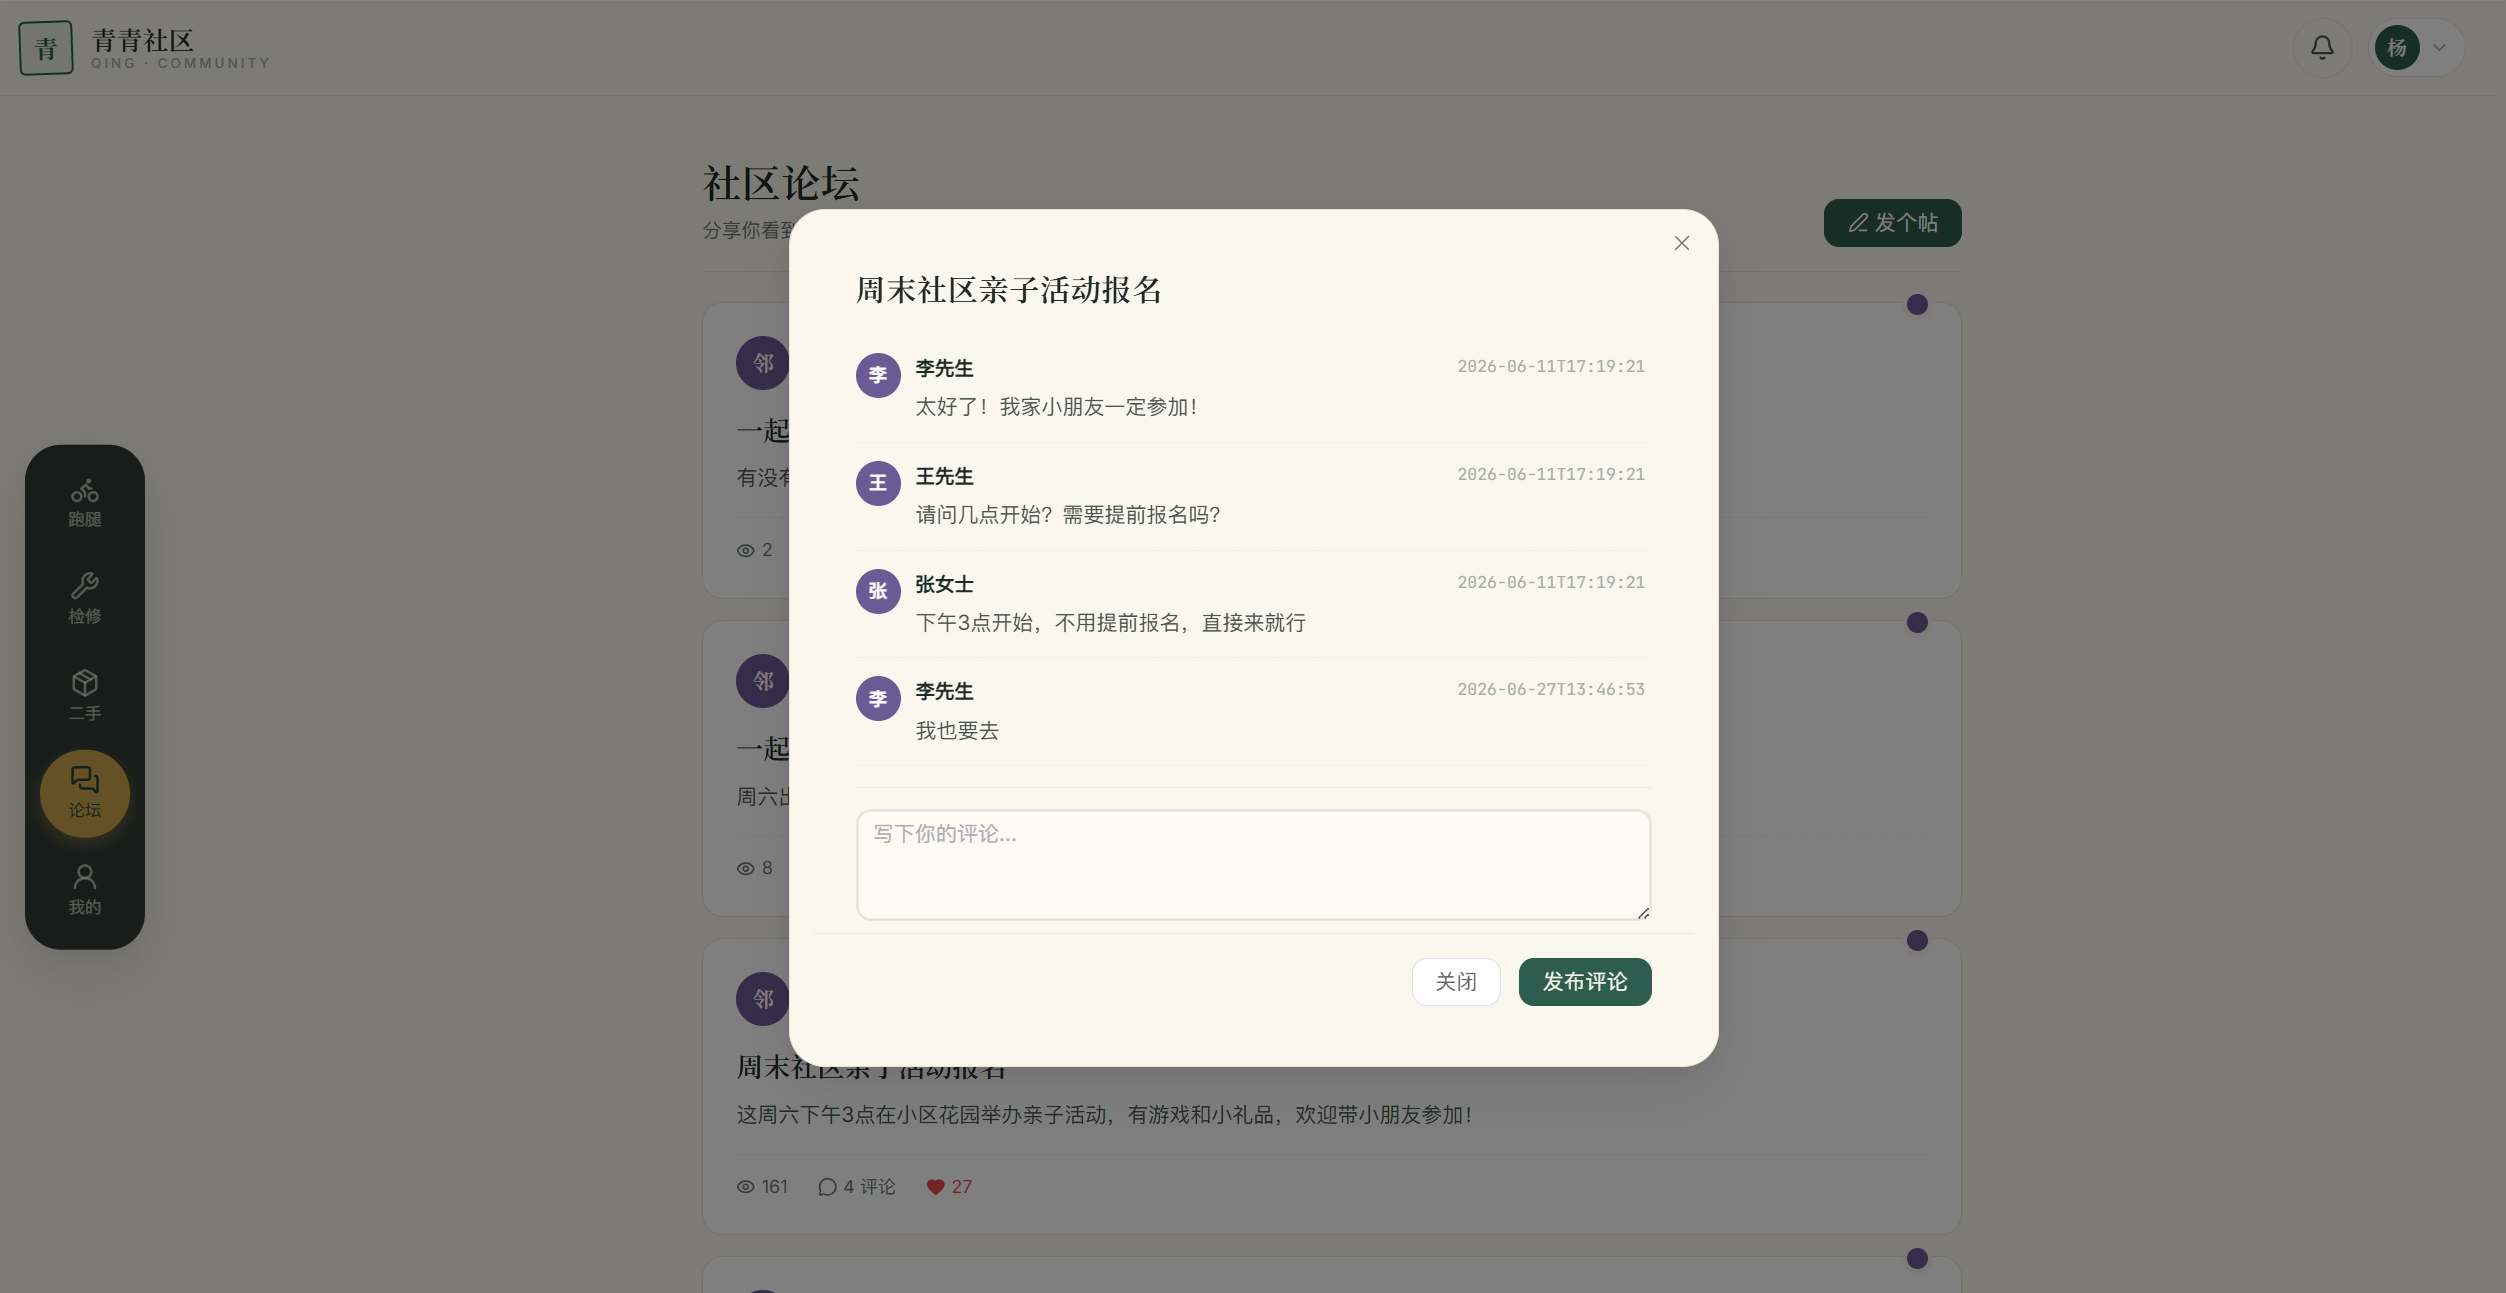
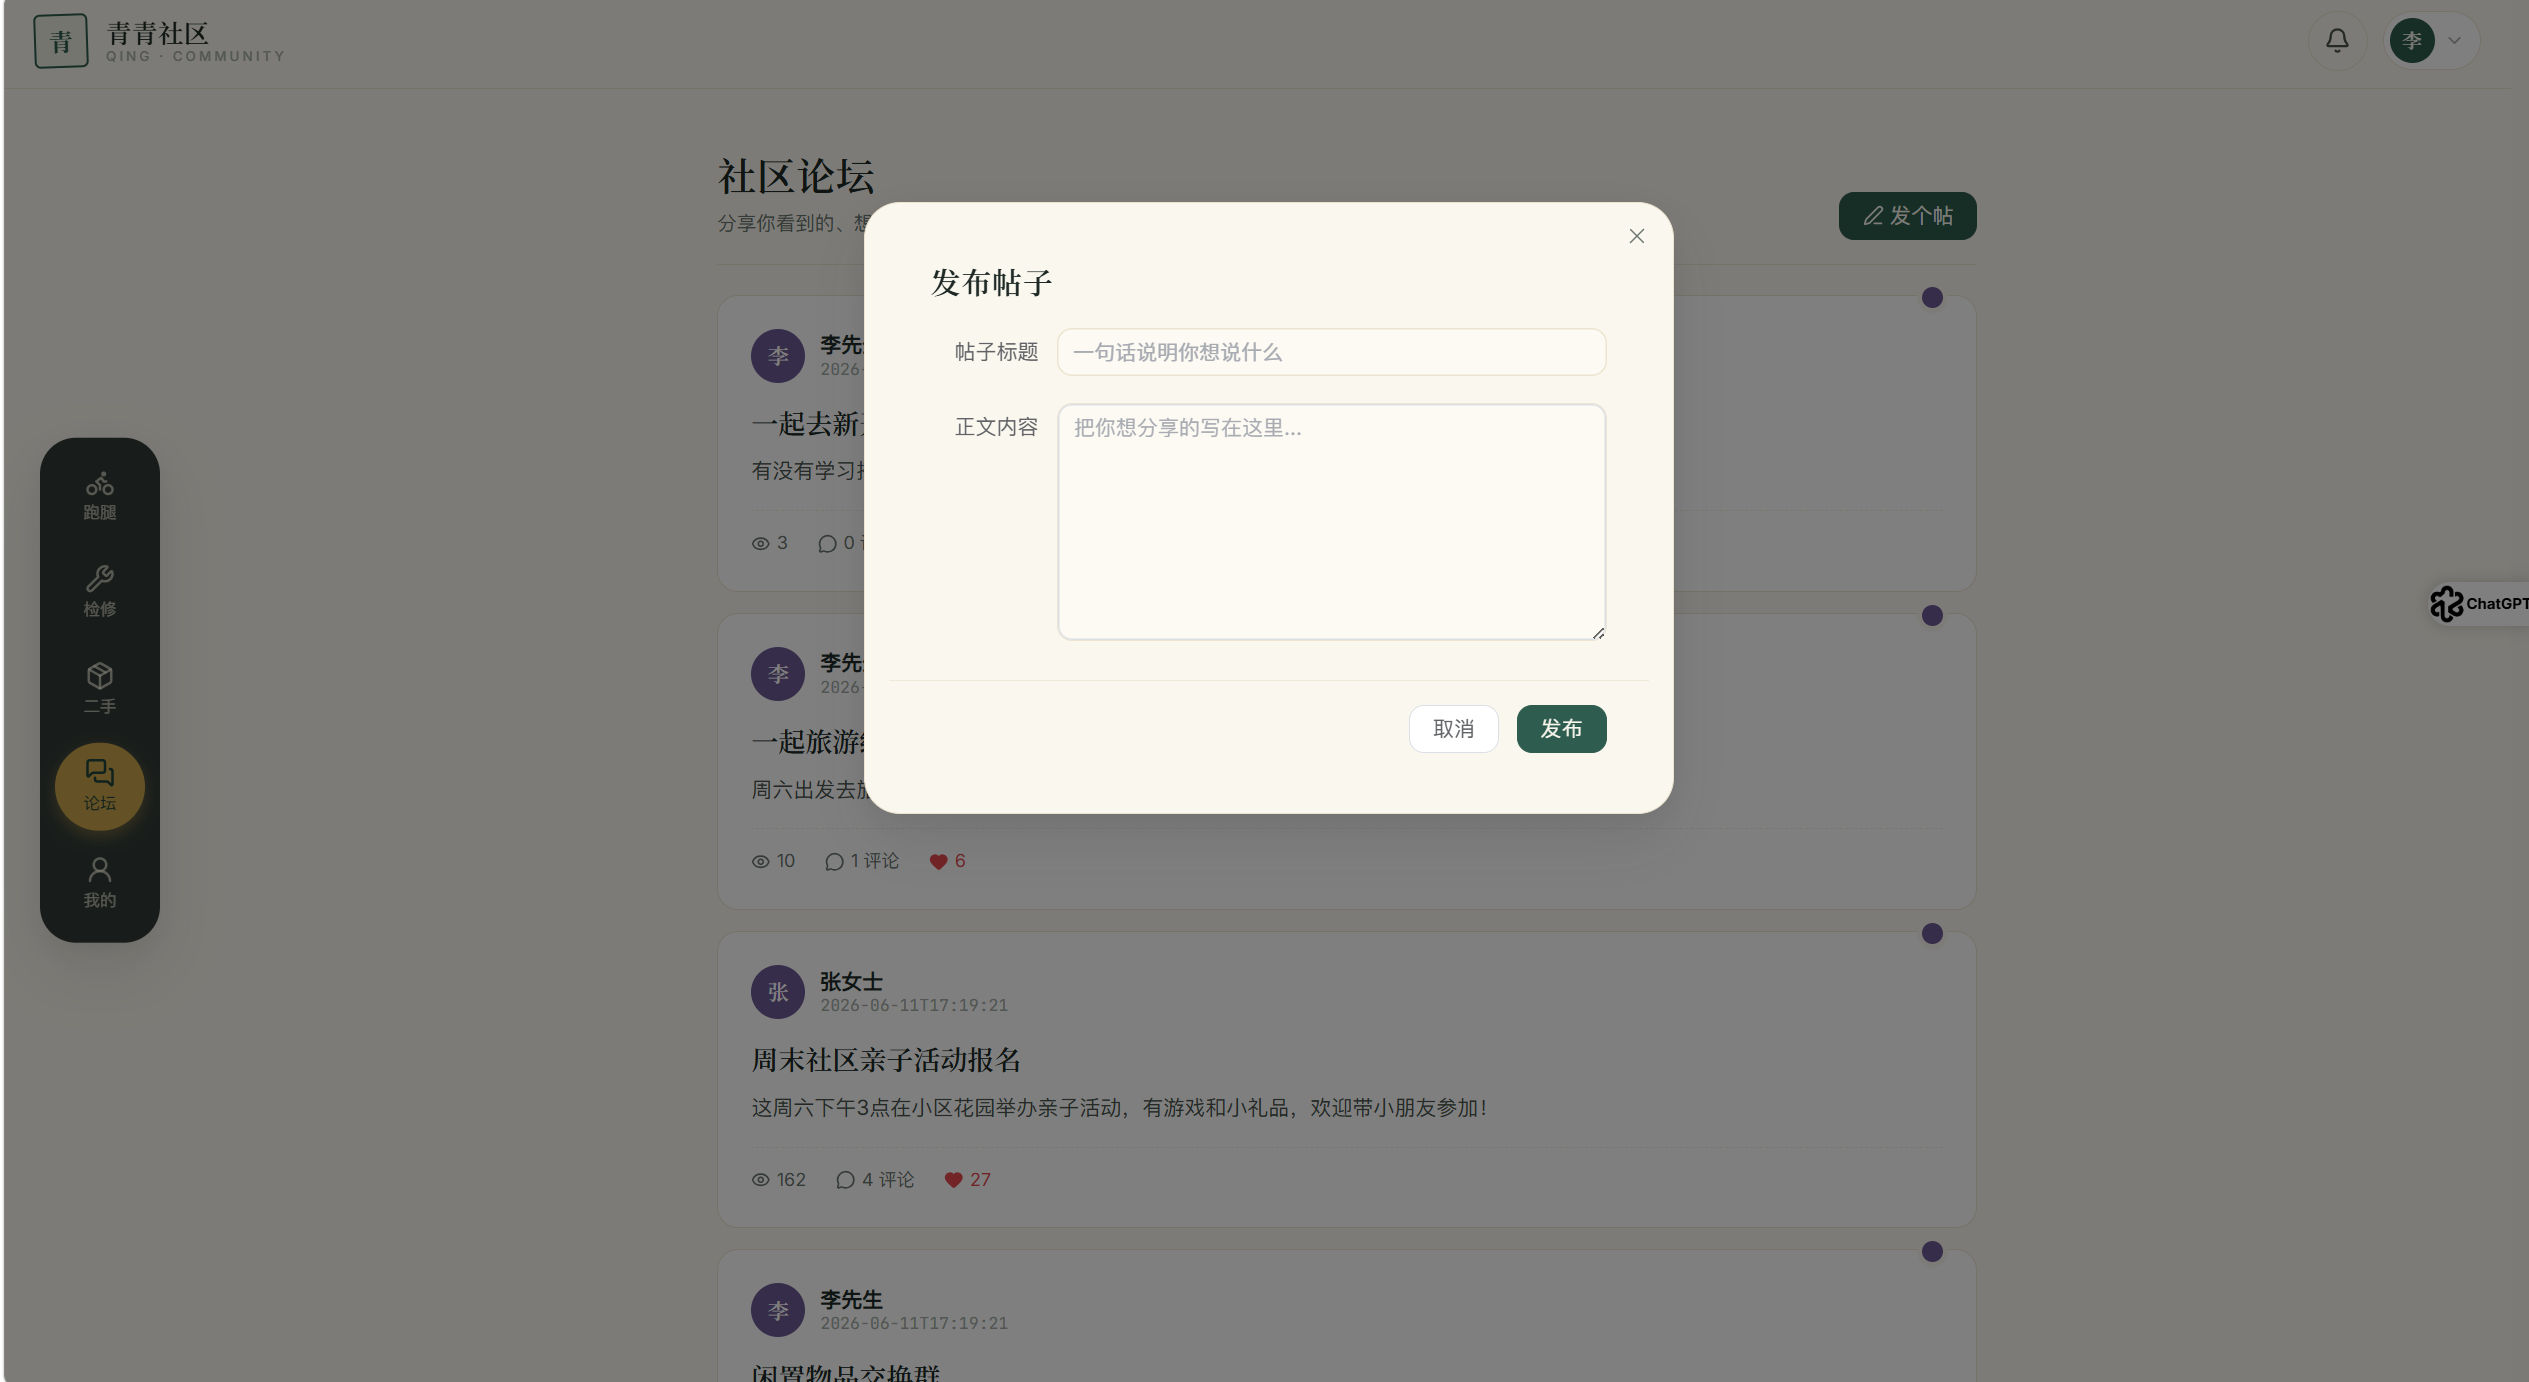
show forum post authors

diff --git a/frontend/src/views/admin/Forum.vue b/frontend/src/views/admin/Forum.vue
@@ -31,8 +31,13 @@
             <span class="row-title">{{ row.title }}</span>
           </template>
         </el-table-column>
-        <el-table-column prop="userId" label="发布者" width="100">
-          <template #default="{ row }"><span class="muted font-mono"># {{ row.userId }}</span></template>
+        <el-table-column prop="authorName" label="发布者" width="150">
+          <template #default="{ row }">
+            <div class="author-cell">
+              <span class="author-name">{{ getAuthorName(row) }}</span>
+              <span class="muted font-mono"># {{ row.userId || '—' }}</span>
+            </div>
+          </template>
         </el-table-column>
         <el-table-column prop="viewCount" label="浏览" width="90" align="right">
           <template #default="{ row }"><span class="font-mono tabular">{{ row.viewCount || 0 }}</span></template>
@@ -78,7 +83,7 @@
     <el-dialog v-model="dialogVisible" title="帖子详情" width="720px">
       <el-descriptions :column="2" border>
         <el-descriptions-item label="帖子标题" :span="2">{{ currentRow.title }}</el-descriptions-item>
-        <el-descriptions-item label="发布者 ID">{{ currentRow.userId }}</el-descriptions-item>
+        <el-descriptions-item label="发布者">{{ getAuthorName(currentRow) }}（ID: {{ currentRow.userId || '—' }}）</el-descriptions-item>
         <el-descriptions-item label="状态">{{ getStatusText(currentRow.status) }}</el-descriptions-item>
         <el-descriptions-item label="浏览数">{{ currentRow.viewCount }}</el-descriptions-item>
         <el-descriptions-item label="评论数">{{ currentRow.commentCount }}</el-descriptions-item>
@@ -110,6 +115,7 @@ const currentRow = ref({})
 const getStatusType = (s) => ({ 0: 'warning', 1: 'success', 2: 'info' }[s] || 'info')
 const getStatusText = (s) => ({ 0: '审核中', 1: '已发布', 2: '已下架' }[s] || '—')
 const statusMap = { 'pending': 0, 'published': 1, 'off_shelf': 2 }
+const getAuthorName = (row) => row?.authorName || (row?.userId ? `用户 #${row.userId}` : '未知用户')
 
 const loadData = async () => {
   loading.value = true
@@ -173,6 +179,8 @@ onMounted(() => loadData())
 
 <style scoped>
 .row-title { font-family: var(--font-display); font-weight: 600; font-size: 14px; color: var(--admin-ink); }
+.author-cell { display: flex; flex-direction: column; gap: 2px; line-height: 1.25; }
+.author-name { font-weight: 600; color: var(--admin-ink); font-size: 13px; }
 .muted { color: var(--admin-muted); }
 .font-mono { font-family: var(--font-mono); font-size: 13px; }
 .post-content {

diff --git a/frontend/src/views/user/Forum.vue b/frontend/src/views/user/Forum.vue
@@ -14,9 +14,9 @@
       <article class="u-card post" v-for="item in posts" :key="item.id">
         <span class="u-pin forum"></span>
         <div class="post-head">
-          <div class="avatar">{{ item.authorName?.[0] || '邻' }}</div>
+          <div class="avatar">{{ getAuthorInitial(item) }}</div>
           <div class="post-meta">
-            <span class="author">{{ item.authorName || '邻居' }}</span>
+            <span class="author">{{ getAuthorName(item) }}</span>
             <span class="time tabular">{{ item.createdAt }}</span>
           </div>
         </div>
@@ -98,6 +98,12 @@ const currentPost = ref(null)
 const commentContent = ref('')
 
 const publishForm = reactive({ title: '', content: '' })
+
+const getAuthorName = (post) => post?.authorName || (post?.userId ? `用户 #${post.userId}` : '未知用户')
+const getAuthorInitial = (post) => {
+  const name = getAuthorName(post)
+  return name?.[0] || '?'
+}
 
 const fetchPosts = async () => {
   try {

diff --git a/backend/src/main/java/com/community/service/ForumService.java b/backend/src/main/java/com/community/service/ForumService.java
@@ -23,6 +23,8 @@ import java.util.HashMap;
 import java.util.ArrayList;
 import java.util.List;
 import java.util.Map;
+import java.util.Objects;
+import java.util.stream.Collectors;
 
 @Service
 @RequiredArgsConstructor
@@ -42,6 +44,7 @@ public class ForumService {
                 .orderByDesc(ForumPost::getCreatedAt);
 
         IPage<ForumPost> pageResult = forumPostMapper.selectPage(new Page<>(page, size), wrapper);
+        fillAuthorNames(pageResult.getRecords());
         for (ForumPost post : pageResult.getRecords()) {
             post.setCommentCount(forumCommentMapper.countPublishedByPostId(post.getId()));
             post.setLiked(userId != null && forumLikeMapper.countByPostIdAndUserId(post.getId(), userId) > 0);
@@ -55,6 +58,7 @@ public class ForumService {
     public ForumPost getPostById(Long id, Long userId) {
         ForumPost post = forumPostMapper.selectById(id);
         if (post != null) {
+            fillAuthorName(post);
             post.setLiked(userId != null && forumLikeMapper.countByPostIdAndUserId(post.getId(), userId) > 0);
             int viewCount = post.getViewCount() == null ? 0 : post.getViewCount();
             post.setViewCount(viewCount + 1);
@@ -117,6 +121,43 @@ public class ForumService {
         data.put("likeCount", likeCount == null ? 0 : likeCount);
         data.put("liked", liked);
         return data;
+    }
+
+    private void fillAuthorNames(List<ForumPost> posts) {
+        if (posts == null || posts.isEmpty()) {
+            return;
+        }
+        List<Long> userIds = posts.stream()
+                .map(ForumPost::getUserId)
+                .filter(Objects::nonNull)
+                .distinct()
+                .collect(Collectors.toList());
+        if (userIds.isEmpty()) {
+            return;
+        }
+        Map<Long, String> authorNameMap = userMapper.selectBatchIds(userIds).stream()
+                .collect(Collectors.toMap(SysUser::getId, this::getUserDisplayName));
+        for (ForumPost post : posts) {
+            post.setAuthorName(authorNameMap.get(post.getUserId()));
+        }
+    }
+
+    private void fillAuthorName(ForumPost post) {
+        if (post == null || post.getUserId() == null) {
+            return;
+        }
+        SysUser user = userMapper.selectById(post.getUserId());
+        post.setAuthorName(user == null ? null : getUserDisplayName(user));
+    }
+
+    private String getUserDisplayName(SysUser user) {
+        if (user == null) {
+            return null;
+        }
+        if (user.getRealName() != null && !user.getRealName().isBlank()) {
+            return user.getRealName();
+        }
+        return user.getUsername();
     }
 
     /**

diff --git a/backend/src/main/java/com/community/controller/AdminForumController.java b/backend/src/main/java/com/community/controller/AdminForumController.java
@@ -4,13 +4,18 @@ import com.baomidou.mybatisplus.core.conditions.query.LambdaQueryWrapper;
 import com.baomidou.mybatisplus.extension.plugins.pagination.Page;
 import com.community.dto.Result;
 import com.community.entity.ForumPost;
+import com.community.entity.SysUser;
 import com.community.repository.ForumPostMapper;
+import com.community.repository.SysUserMapper;
 import lombok.RequiredArgsConstructor;
 import org.springframework.util.StringUtils;
 import org.springframework.web.bind.annotation.*;
 
 import java.util.HashMap;
+import java.util.List;
 import java.util.Map;
+import java.util.Objects;
+import java.util.stream.Collectors;
 
 @RestController
 @RequestMapping("/api/admin/forum")
@@ -18,6 +23,7 @@ import java.util.Map;
 public class AdminForumController {
 
     private final ForumPostMapper postMapper;
+    private final SysUserMapper userMapper;
 
     @GetMapping
     public Result<Map<String, Object>> listPosts(
@@ -38,6 +44,7 @@ public class AdminForumController {
         wrapper.orderByDesc(ForumPost::getCreatedAt);
 
         Page<ForumPost> pageResult = postMapper.selectPage(new Page<>(page, size), wrapper);
+        fillAuthorNames(pageResult.getRecords());
 
         Map<String, Object> result = new HashMap<>();
         result.put("records", pageResult.getRecords());
@@ -66,5 +73,34 @@ public class AdminForumController {
     public Result<Void> deletePost(@PathVariable Long id) {
         postMapper.deleteById(id);
         return Result.success("删除成功", null);
+    }
+
+    private void fillAuthorNames(List<ForumPost> posts) {
+        if (posts == null || posts.isEmpty()) {
+            return;
+        }
+        List<Long> userIds = posts.stream()
+                .map(ForumPost::getUserId)
+                .filter(Objects::nonNull)
+                .distinct()
+                .collect(Collectors.toList());
+        if (userIds.isEmpty()) {
+            return;
+        }
+        Map<Long, String> authorNameMap = userMapper.selectBatchIds(userIds).stream()
+                .collect(Collectors.toMap(SysUser::getId, this::getUserDisplayName));
+        for (ForumPost post : posts) {
+            post.setAuthorName(authorNameMap.get(post.getUserId()));
+        }
+    }
+
+    private String getUserDisplayName(SysUser user) {
+        if (user == null) {
+            return null;
+        }
+        if (user.getRealName() != null && !user.getRealName().isBlank()) {
+            return user.getRealName();
+        }
+        return user.getUsername();
     }
 }

diff --git a/backend/src/main/java/com/community/entity/ForumPost.java b/backend/src/main/java/com/community/entity/ForumPost.java
@@ -47,4 +47,10 @@ public class ForumPost {
      */
     @TableField(exist = false)
     private Boolean liked;
+
+    /**
+     * 发帖人展示名，仅用于接口返回。
+     */
+    @TableField(exist = false)
+    private String authorName;
 }

diff --git a/docs/project-progress.md b/docs/project-progress.md
@@ -805,3 +805,24 @@
 验证：
 - 前端执行 `npm.cmd run build` 通过。
 - 构建仍有历史 Rollup 注释提示和大 chunk warning，不影响本次页面运行。
+
+### 2026-07-04：论坛帖子显示真实发布者
+
+发现问题：
+- 用户端社区论坛列表中，帖子发布者在接口未返回作者名时会显示为“邻居”，无法看出具体是谁发的帖子。
+- 后台资讯论坛管理页也主要显示发布者 ID，可读性不足。
+
+完成：
+- `ForumPost` 新增非数据库字段 `authorName`，用于接口返回发帖人展示名。
+- `ForumService.listPosts()` 和 `ForumService.getPostById()` 根据 `userId` 补充发帖人姓名，优先使用 `realName`，没有实名时使用 `username`。
+- 后台 `AdminForumController` 列表接口同样补充 `authorName`。
+- 用户端 `Forum.vue` 从 `authorName` 显示发帖人，接口异常缺失时兜底为 `用户 #ID`，不再显示泛化的“邻居”。
+- 后台 `admin/Forum.vue` 发布者列改为展示“姓名 + ID”，帖子详情也显示发布者姓名。
+
+业务效果：
+- 居民浏览论坛时可以知道帖子由谁发布，互动关系更清晰。
+- 管理员审核、下架和删除帖子时可以快速识别发布者，减少只看 ID 的维护成本。
+
+验证：
+- 前端执行 `npm.cmd run build` 通过。
+- 后端完整 Maven 编译仍需在 IDEA 或本机 Maven 中验证。
